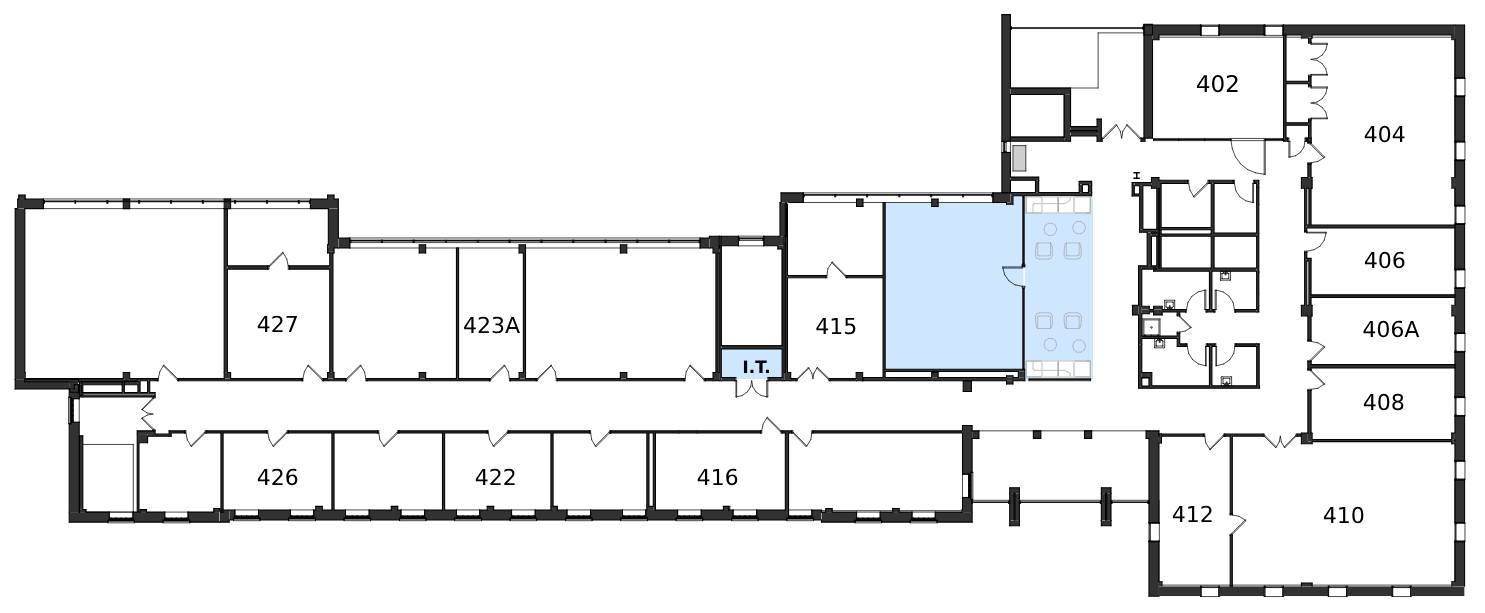
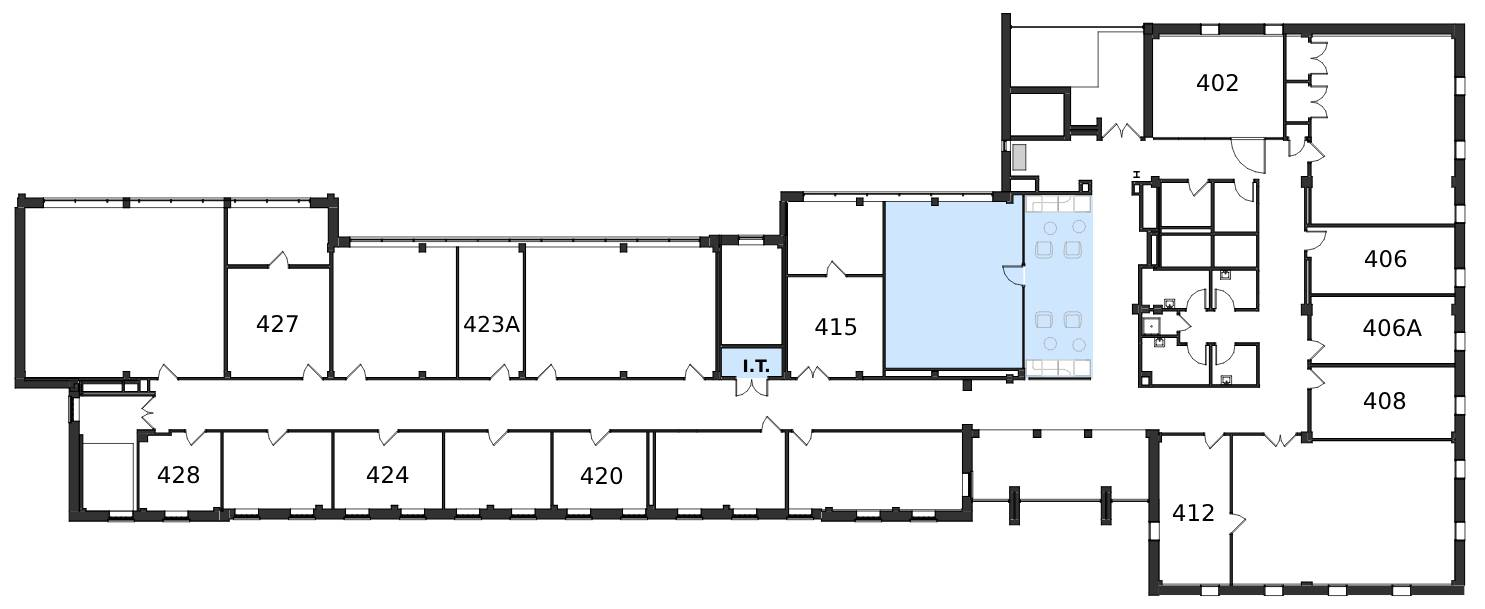
Fixed map buttons + auto full screen

diff --git a/test-app/src/index.html b/test-app/src/index.html
@@ -193,6 +193,16 @@
                             &nbsp;&nbsp;400&nbsp;&nbsp;
                         </span>
                     </button>
+                    <button class="app-button" data-action="ROOM_404">
+                        <span class="fit-text text-color-black">
+                            &nbsp;&nbsp;404&nbsp;&nbsp;
+                        </span>
+                    </button>
+                    <button class="app-button" data-action="ROOM_410">
+                        <span class="fit-text text-color-black">
+                            &nbsp;&nbsp;410&nbsp;&nbsp;
+                        </span>
+                    </button>
 
                     <button class="app-button" data-action="ROOM_429">
                         <span class="fit-text text-color-black">
@@ -210,19 +220,19 @@
                         </span>
                     </button>
 
-                    <button class="app-button" data-action="ROOM_428">
+                    <button class="app-button" data-action="ROOM_426">
                         <span class="fit-text text-color-black">
-                            &nbsp;&nbsp;428&nbsp;&nbsp;
+                            &nbsp;&nbsp;426&nbsp;&nbsp;
                         </span>
                     </button>
-                    <button class="app-button" data-action="ROOM_424">
+                    <button class="app-button" data-action="ROOM_422">
                         <span class="fit-text text-color-black">
-                            &nbsp;&nbsp;424&nbsp;&nbsp;
+                            &nbsp;&nbsp;422&nbsp;&nbsp;
                         </span>
                     </button>
-                    <button class="app-button" data-action="ROOM_420">
+                    <button class="app-button" data-action="ROOM_416">
                         <span class="fit-text text-color-black">
-                            &nbsp;&nbsp;420&nbsp;&nbsp;
+                            &nbsp;&nbsp;&nbsp;416&nbsp;&nbsp;&nbsp;
                         </span>
                     </button>
                     <button class="app-button" data-action="ROOM_414">

diff --git a/test-app/src/style.css b/test-app/src/style.css
@@ -207,9 +207,11 @@ button[data-action="ROOM_429"] {width: 5.1%; height: 9%; left: 6%; top: 48.5%; b
 button[data-action="ROOM_423"] {width: 5.1%; height: 9%; left: 24%; top: 48.5%; border: 2.5px solid #000000; border-radius: 35%; position: absolute;}
 button[data-action="ROOM_419"] {width: 5.1%; height: 9%; left: 39%; top: 48.5%; border: 2.5px solid #000000; border-radius: 35%; position: absolute;}
 
-button[data-action="ROOM_428"] {width: 5%; height: 8%; left: 9.6%; top: 73.6%; border: 2.5px solid #000000; border-radius: 35%; position: absolute;}
-button[data-action="ROOM_424"] {width: 5.1%; height: 8%; left: 23.5%; top: 73.6%; border: 2.5px solid #000000; border-radius: 35%; position: absolute;}
-button[data-action="ROOM_420"] {width: 5.1%; height: 8%; left: 38%; top: 73.6%; border: 2.5px solid #000000; border-radius: 35%; position: absolute;}
-button[data-action="ROOM_414"] {width: 7%; height: 8%; left: 55.5%; top: 73.6%; border: 2.5px solid #000000; border-radius: 35%; position: absolute;}
+button[data-action="ROOM_426"] {width: 5%; height: 8%; left: 16.2%; top: 73.6%; border: 2.5px solid #000000; border-radius: 35%; position: absolute;}
+button[data-action="ROOM_422"] {width: 5.1%; height: 8%; left: 31%; top: 73.6%; border: 2.5px solid #000000; border-radius: 35%; position: absolute;}
+button[data-action="ROOM_416"] {width: 6%; height: 8%; left: 45.5%; top: 73.6%; border: 2.5px solid #000000; border-radius: 35%; position: absolute;}
+button[data-action="ROOM_414"] {width: 6%; height: 8%; left: 56%; top: 73.6%; border: 2.5px solid #000000; border-radius: 35%; position: absolute;}
 
 button[data-action="ROOM_400"] {width: 5.1%; height: 9%; left: 61.5%; top: 43%; border: 2.5px solid #000000; border-radius: 35%; position: absolute;}
+button[data-action="ROOM_404"] {width: 5.1%; height: 9%; left: 90.7%; top: 20%; border: 2.5px solid #000000; border-radius: 35%; position: absolute;}
+button[data-action="ROOM_410"] {width: 5.1%; height: 9%; left: 86.5%; top: 79.5%; border: 2.5px solid #000000; border-radius: 35%; position: absolute;}

diff --git a/test-app/src/main.js b/test-app/src/main.js
@@ -100,7 +100,7 @@ function createWindow() {
     }
   });
 
-  // Load HTML file
+  mainWindow.maximize();
   mainWindow.loadFile(path.join(__dirname, 'index.html'));
 
   //------------------------------------------------------------
